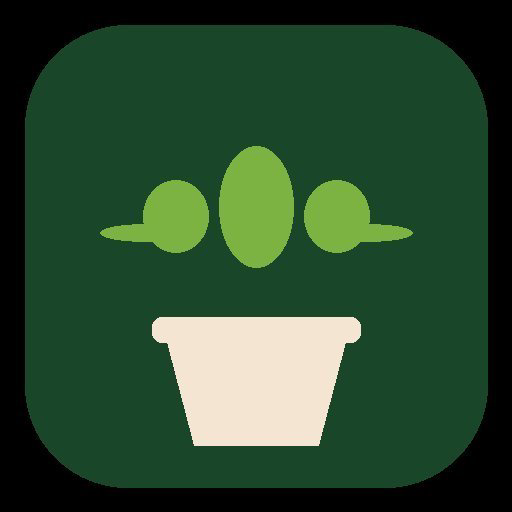
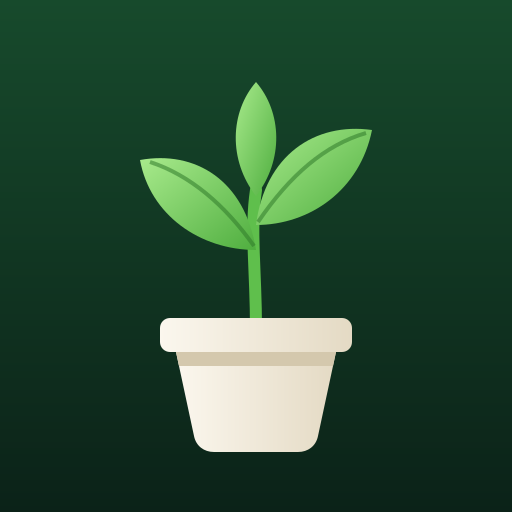
PlantCare: nowa ikona

diff --git a/scripts/ikony-ujednolic.py b/scripts/ikony-ujednolic.py
@@ -25,7 +25,7 @@ ROZMIAR = 192
 ROBOCZY = 512
 
 # ikony z ramka w kolorze tla pliku: obcinamy wszystko, co ma ten kolor przy krawedzi
-RAMKA = {'plantcare-icon.png', 'toonblast-icon.png', 'deutsch-lernen-icon.png'}
+RAMKA = {'toonblast-icon.png', 'deutsch-lernen-icon.png'}
 
 # ikony z polprzezroczystym wnetrzem, projektowane pod ciemne tlo:
 # kladziemy je na jednolitym kolorze tla ikony (rozlewanie koloru robi z nich plame)
